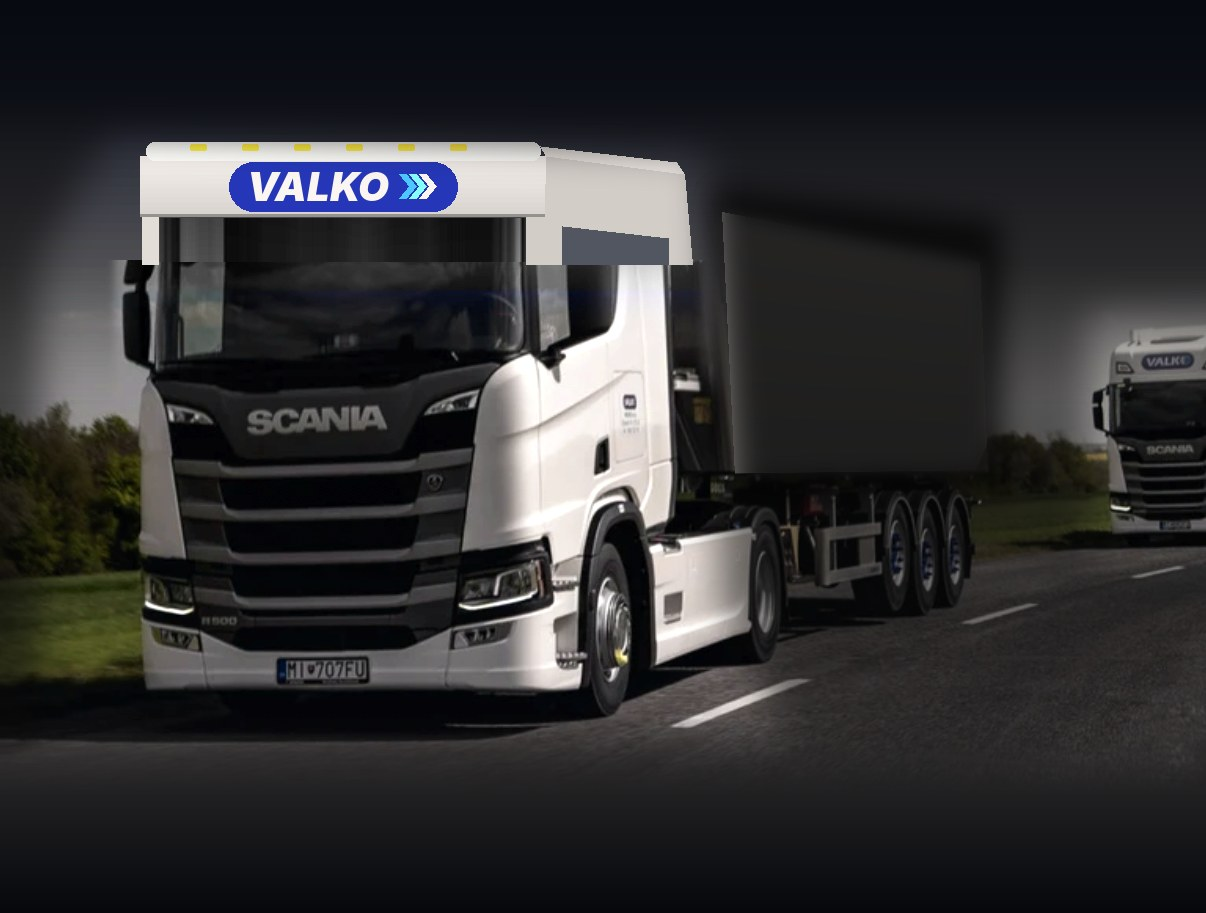
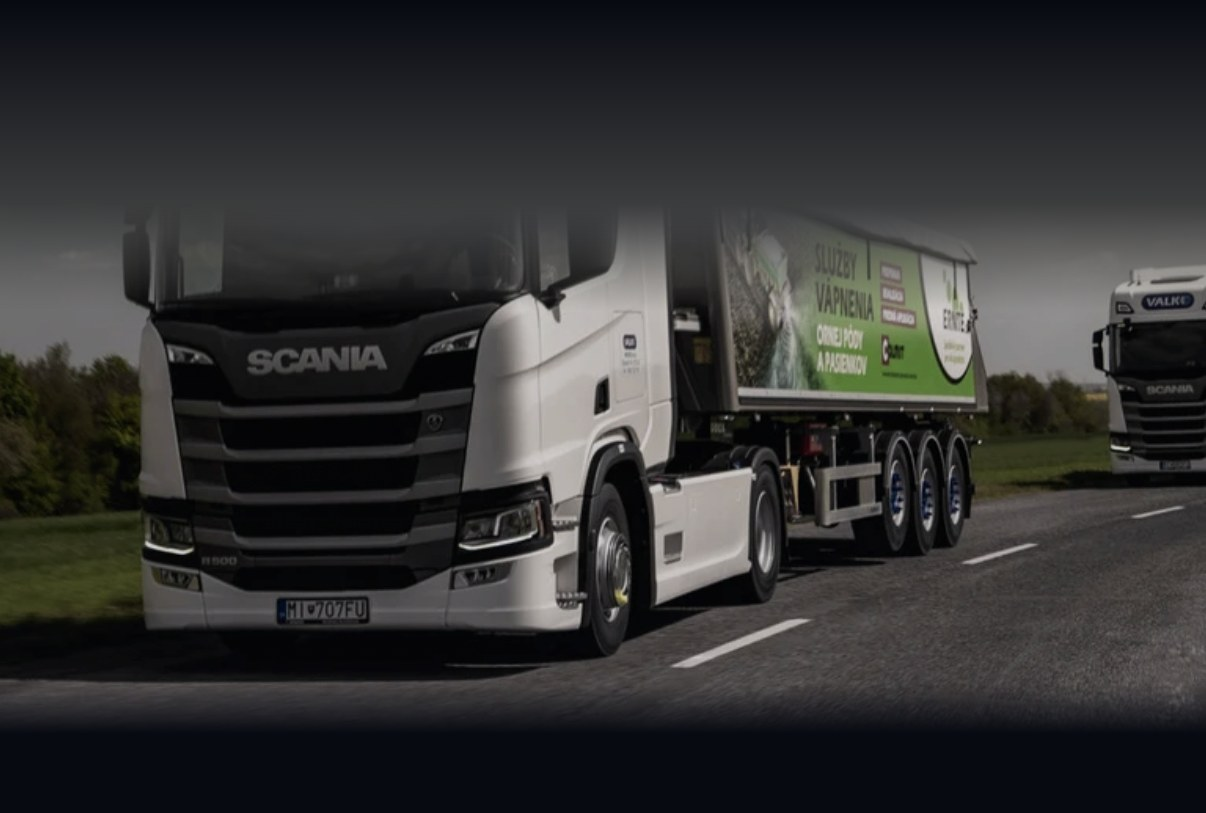
Hero: originálna fotka VALKO + jemné sklo/diamant tieňovanie
Claude-Session: https://claude.ai/code/session_01T1wT3WgQko2kKtKKfE1S8B

diff --git a/farmar/index.html b/farmar/index.html
@@ -197,8 +197,8 @@ details.trips{border-top:1px solid var(--line);padding-top:8px}details.trips sum
 .xdh{display:grid;grid-template-columns:44px 1fr;gap:12px;align-items:center}.xdn{display:grid;min-width:0}.xdn b{font:600 .98rem var(--f-head)}.xdn small{font-size:.76rem;color:var(--muted)}
 .live{display:inline-block;width:8px;height:8px;border-radius:50%;background:#b6ff3b;box-shadow:0 0 10px #b6ff3b;margin-right:6px;animation:pulse 1.6s infinite}@keyframes pulse{50%{opacity:.35}}
 .xset summary{list-style:none;cursor:pointer;display:flex;gap:10px;align-items:center}.xset summary::-webkit-details-marker{display:none}.xset summary span{width:36px;height:36px;border-radius:12px;display:grid;place-items:center;background:rgba(255,255,255,.07)}
-.vhero{position:relative;overflow:hidden;isolation:isolate;border-radius:30px;min-height:330px;display:grid;align-items:end;background:var(--bg) 24% 42%/cover no-repeat,#05070a;border:1px solid rgba(255,255,255,.14);box-shadow:0 30px 80px rgba(0,0,0,.6)}
-.vhero::before{content:"";position:absolute;inset:0;background:linear-gradient(180deg,rgba(5,7,10,.35) 0%,rgba(5,7,10,.05) 22%,rgba(5,7,10,.15) 45%,rgba(5,7,10,.78) 70%,rgba(5,7,10,.94) 100%),radial-gradient(80% 60% at 0% 100%,rgba(182,255,59,.28),transparent 60%),radial-gradient(70% 60% at 100% 0%,rgba(124,92,255,.35),transparent 60%)}
+.vhero{position:relative;overflow:hidden;isolation:isolate;border-radius:30px;min-height:330px;display:grid;align-items:end;background:var(--bg) 40% 45%/cover no-repeat,#05070a;border:1px solid rgba(255,255,255,.14);box-shadow:0 30px 80px rgba(0,0,0,.6)}
+.vhero::before{content:"";position:absolute;inset:0;background:linear-gradient(180deg,rgba(5,7,10,.25) 0%,rgba(5,7,10,0) 25%,rgba(5,7,10,.12) 48%,rgba(5,7,10,.7) 72%,rgba(5,7,10,.9) 100%),radial-gradient(80% 60% at 0% 100%,rgba(182,255,59,.28),transparent 60%),radial-gradient(70% 60% at 100% 0%,rgba(124,92,255,.35),transparent 60%)}
 .vhin{position:relative;padding:22px 20px 18px;display:grid;gap:10px}
 .vbrand{display:flex;align-items:center;gap:10px;font:700 .72rem var(--f-head);letter-spacing:.32em}.vbrand i{width:6px;height:6px;border-radius:50%;background:#b6ff3b;box-shadow:0 0 12px #b6ff3b}
 .vhero h1{margin:0;font:700 clamp(1.9rem,8vw,2.8rem)/1.02 var(--f-head);letter-spacing:-.04em;text-shadow:0 4px 30px rgba(0,0,0,.6)}.vhero h1 em{font-style:normal;background:linear-gradient(90deg,#b6ff3b,#5eead4);-webkit-background-clip:text;background-clip:text;color:transparent}
@@ -220,7 +220,7 @@ details.trips{border-top:1px solid var(--line);padding-top:8px}details.trips sum
 .vcerts{display:grid;grid-template-columns:repeat(2,minmax(0,1fr));gap:8px}.vcerts div{padding:10px 12px;border-radius:14px;background:rgba(255,255,255,.04);border:1px solid rgba(255,255,255,.08);display:grid}.vcerts b{font-size:.8rem}.vcerts small{font-size:.68rem;color:var(--muted)}.vcerts .warn{border-color:rgba(255,207,90,.5)}
 .vteam{display:grid;gap:8px}.vt{display:grid;grid-template-columns:44px 1fr auto auto;gap:10px;align-items:center;padding:10px 12px;border-radius:18px;background:var(--glass);border:1px solid var(--line)}.vt div{display:grid;min-width:0}.vt b{font-size:.88rem}.vt small{font-size:.72rem;color:var(--muted)}.vt .btn{min-height:40px;padding:0 12px}
 .vtruck{position:absolute;right:-30px;top:18px;width:110%;max-width:620px;opacity:.9;pointer-events:none;filter:drop-shadow(0 20px 40px rgba(0,0,0,.6))}
-.vhero{min-height:460px}.vhero h1,.vhero p,.vbrand{text-shadow:0 2px 18px rgba(0,0,0,.85)}.vhero::before{z-index:0}.vtruck{z-index:0}.vhin{z-index:1}
+.vhero{min-height:460px}.vhero::after{content:"";position:absolute;inset:0;z-index:0;pointer-events:none;border-radius:inherit;background:linear-gradient(115deg,transparent 0 30%,rgba(255,255,255,.06) 30.5%,transparent 31% 52%,rgba(255,255,255,.045) 52.5%,transparent 53%),linear-gradient(65deg,transparent 0 62%,rgba(180,220,255,.055) 62.5%,transparent 63% 78%,rgba(255,255,255,.04) 78.4%,transparent 79%),linear-gradient(160deg,rgba(255,255,255,.14),rgba(255,255,255,0) 35%,rgba(255,255,255,0) 65%,rgba(150,200,255,.08));mix-blend-mode:screen;box-shadow:inset 0 1px 0 rgba(255,255,255,.35),inset 0 0 0 1px rgba(255,255,255,.10),inset 0 -40px 80px rgba(0,0,0,.35)}.vhero h1,.vhero p,.vbrand{text-shadow:0 2px 18px rgba(0,0,0,.85)}.vhero::before{z-index:0}.vtruck{z-index:0}.vhin{z-index:1}
 .vnav button{position:relative;overflow:hidden;background:linear-gradient(160deg,rgba(255,255,255,.08),rgba(255,255,255,.02));border:1px solid rgba(255,255,255,.12);box-shadow:inset 0 1px 0 rgba(255,255,255,.12),0 10px 30px rgba(0,0,0,.35)}
 .vnav button::after{content:"";position:absolute;inset:auto -30% -60% auto;width:90px;height:90px;border-radius:50%;background:radial-gradient(circle,rgba(124,92,255,.35),transparent 70%);pointer-events:none}
 .vnav button span{width:38px;height:38px;border-radius:13px;display:grid;place-items:center;background:linear-gradient(135deg,rgba(182,255,59,.22),rgba(34,211,238,.18));border:1px solid rgba(255,255,255,.14);box-shadow:0 0 18px rgba(182,255,59,.2)}
